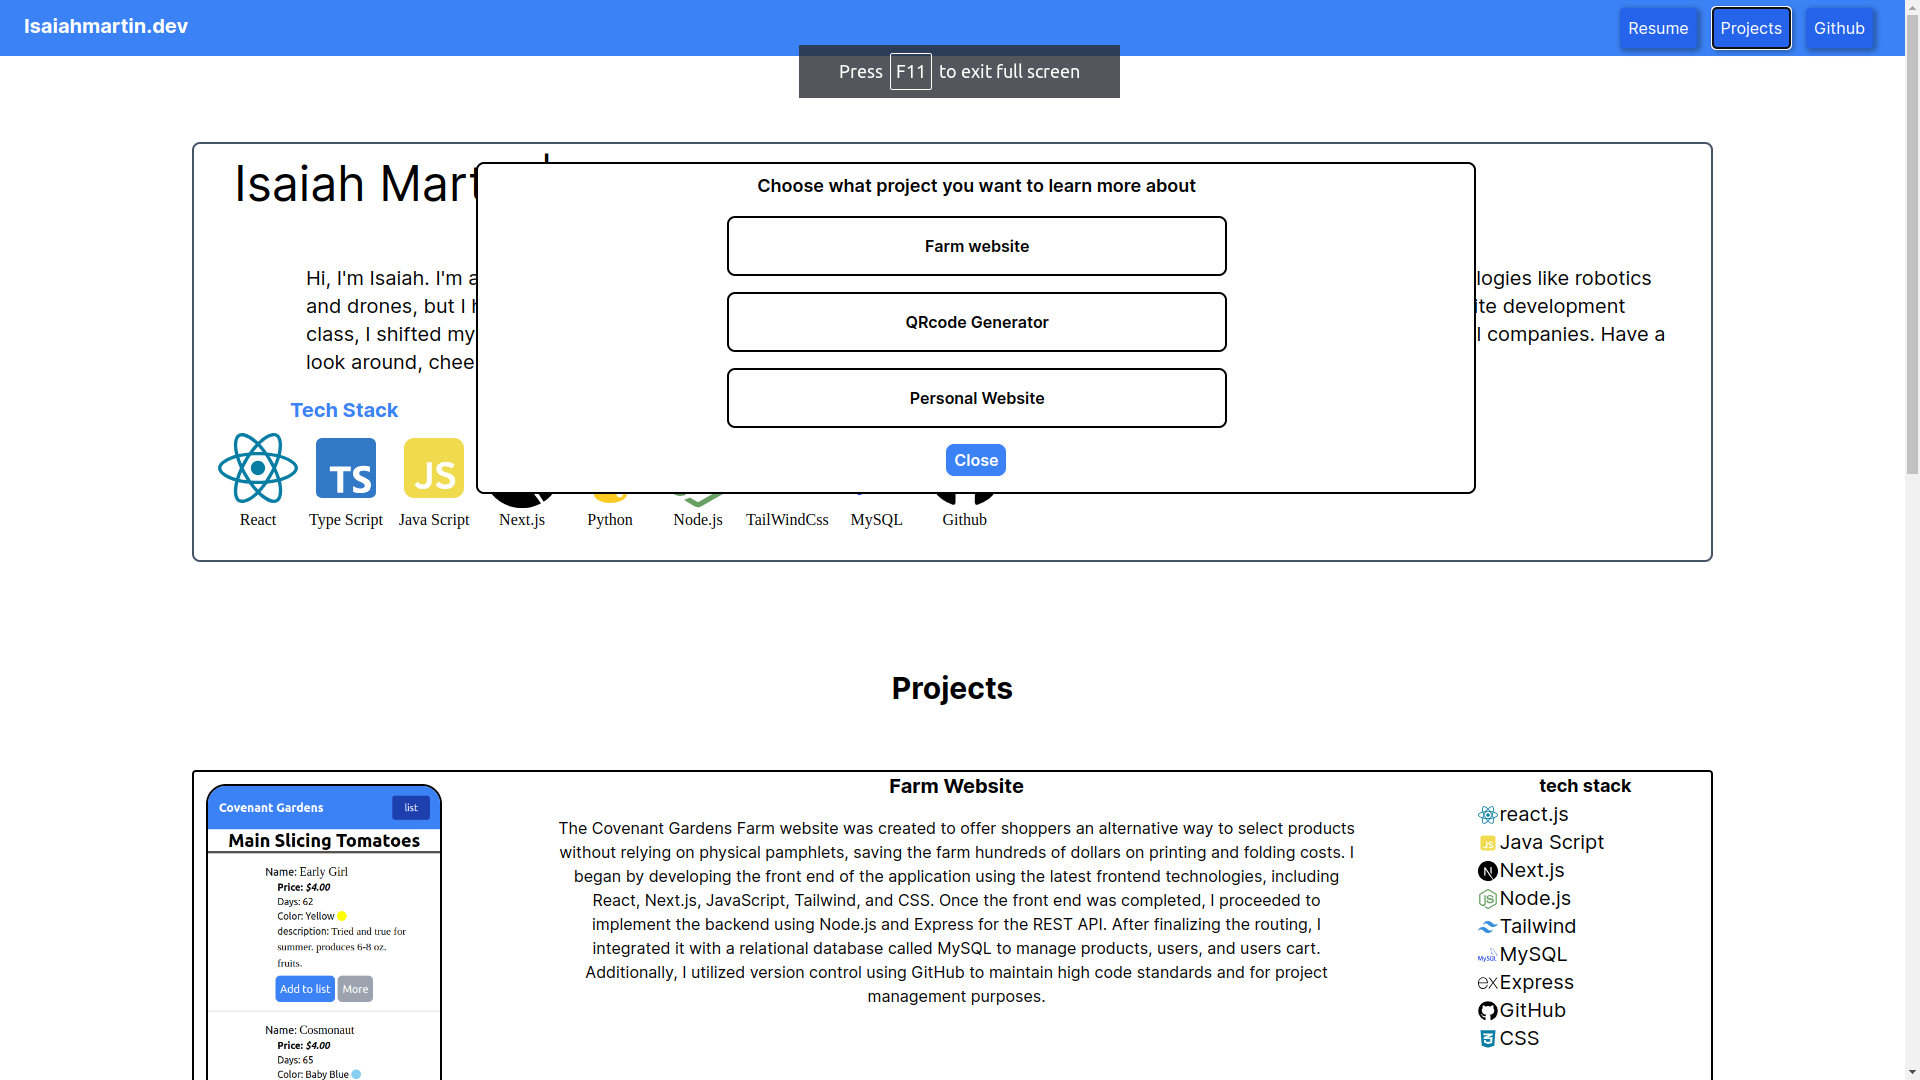
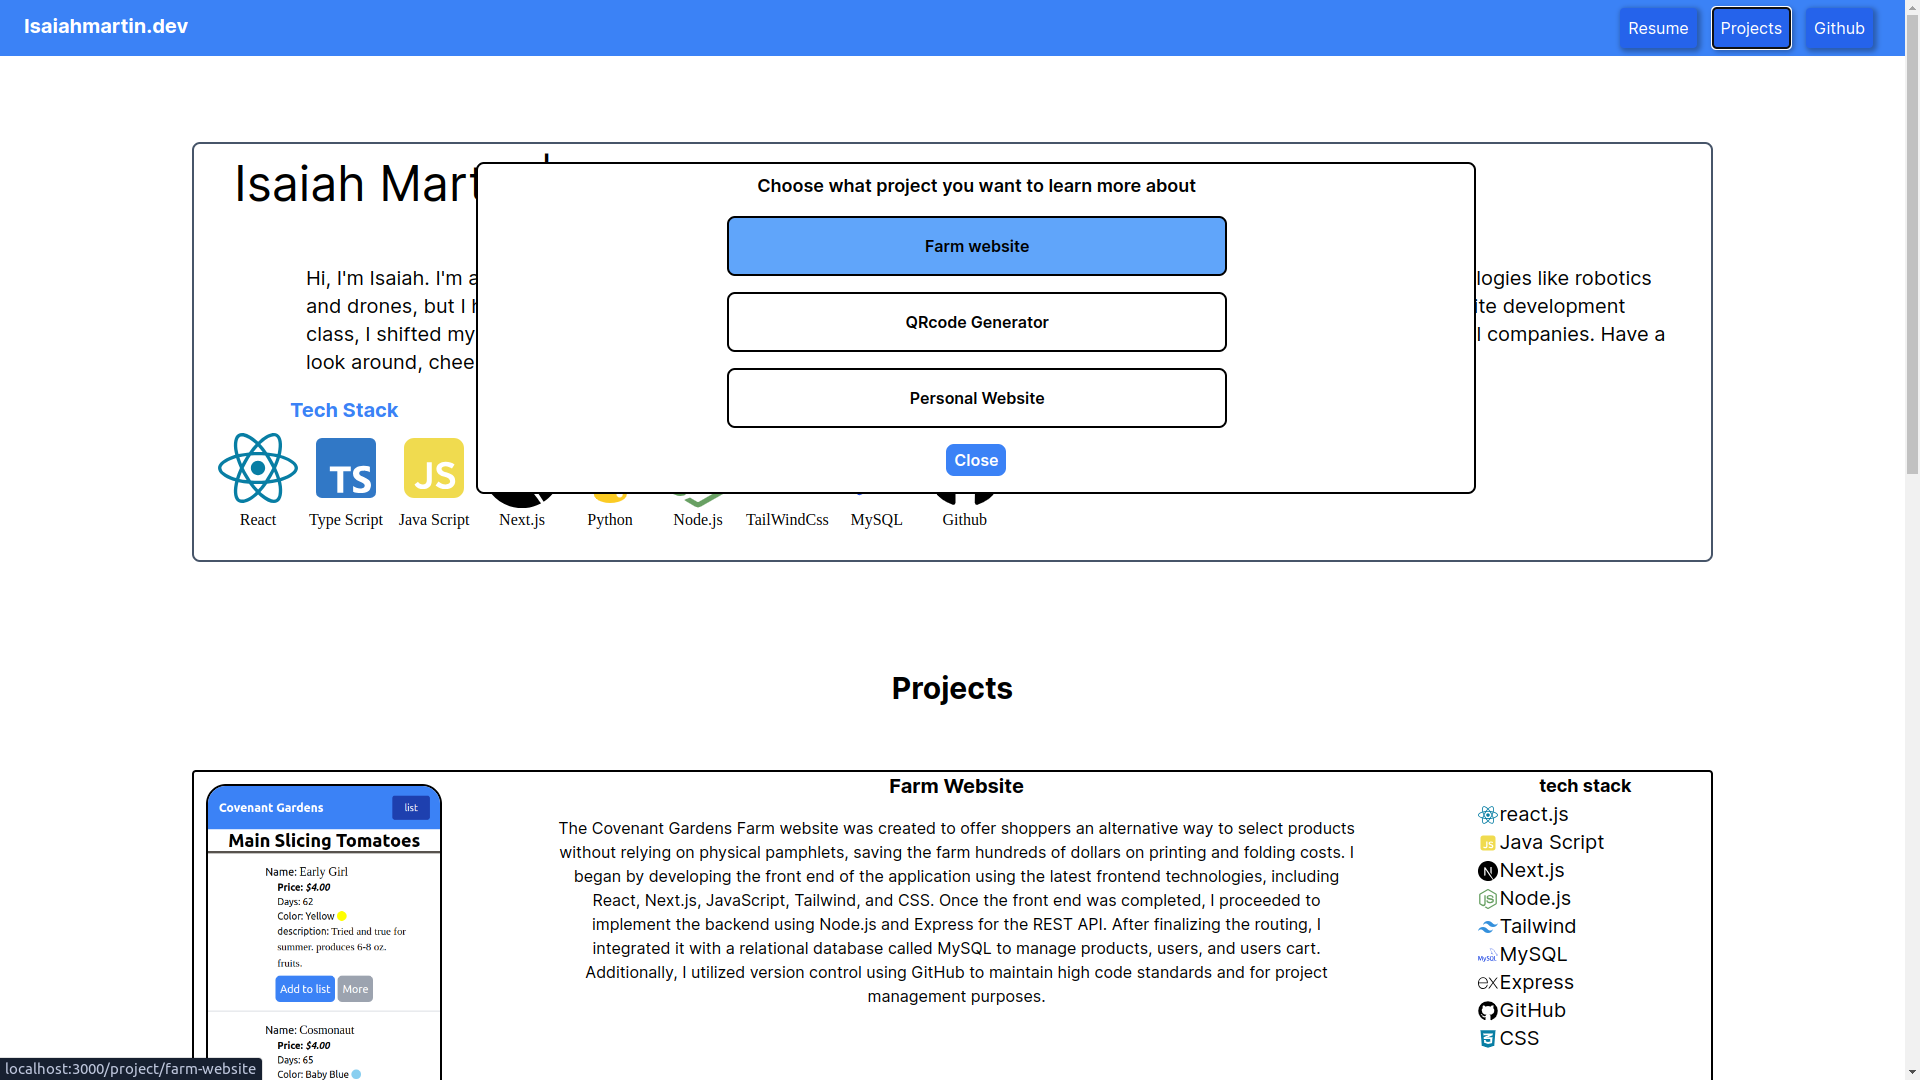
added the right title head

Changed region(s): [[0.375, 0.1833, 0.6562, 0.275], [0.4062, 0.0306, 0.5938, 0.0917], [0.0, 0.9778, 0.1562, 1.0]]

diff --git a/client/src/app/components/about_me.tsx b/client/src/app/components/about_me.tsx
@@ -18,7 +18,7 @@ export default function AboutMe () {
                     <div className='w-fit ml-28 pr-10 mt-10'>
                         <div className='flex flex-col'>
                             <div className='flex items-center space-x-2'>
-                                <p className='text-xl'>Hi, I'm Isaiah. I'm a highly motivated Full Stack Engineer focusing on front-end development. I've worked with various technologies like robotics and drones, but I have a deep passion for creating high-performing full-stack applications. After completing Harvard's website development class, I shifted my focus to Next.js and React with TypeScript. I've built and deployed multiple full-stack applications for local companies. Have a look around, cheers.</p>
+                                <p className='text-xl'>Hi, I'm Isaiah. I'm a highly motivated Full Stack Engineer focusing on front-end development. I've worked with various technologies like robotics and drones, but I have a deep passion for creating high-performing, full-stack applications. After completing Harvard's website development class, I shifted my focus to Next.js and React with TypeScript. I've built and deployed multiple full-stack applications for local companies. Have a look around, cheers.</p>
                                 {/* <span><FaGlassCheers size={25} className=''/></span> */}
                             </div>
                         </div>

diff --git a/client/src/app/project/personal/page.tsx b/client/src/app/project/personal/page.tsx
@@ -4,7 +4,7 @@ import Image from "next/image"
 import { FaReact,  FaCss3Alt, FaGithub } from "react-icons/fa";
 import { SiTailwindcss, SiTypescript, SiNextdotjs } from "react-icons/si";
 import GithubLastUpdate from "@/app/components/github_last_update";
-import Link from "next/link";
+// import Link from "next/link";
 
 
 const PersonalWeb = () => {

diff --git a/client/src/app/layout.tsx b/client/src/app/layout.tsx
@@ -5,8 +5,8 @@ import "./globals.css";
 const inter = Inter({ subsets: ["latin"] });
 
 export const metadata: Metadata = {
-  title: "Create Next App",
-  description: "Generated by create next app",
+  title: "Isaiah Martin",
+  description: "This is my portfolio app",
 };
 
 export default function RootLayout({
